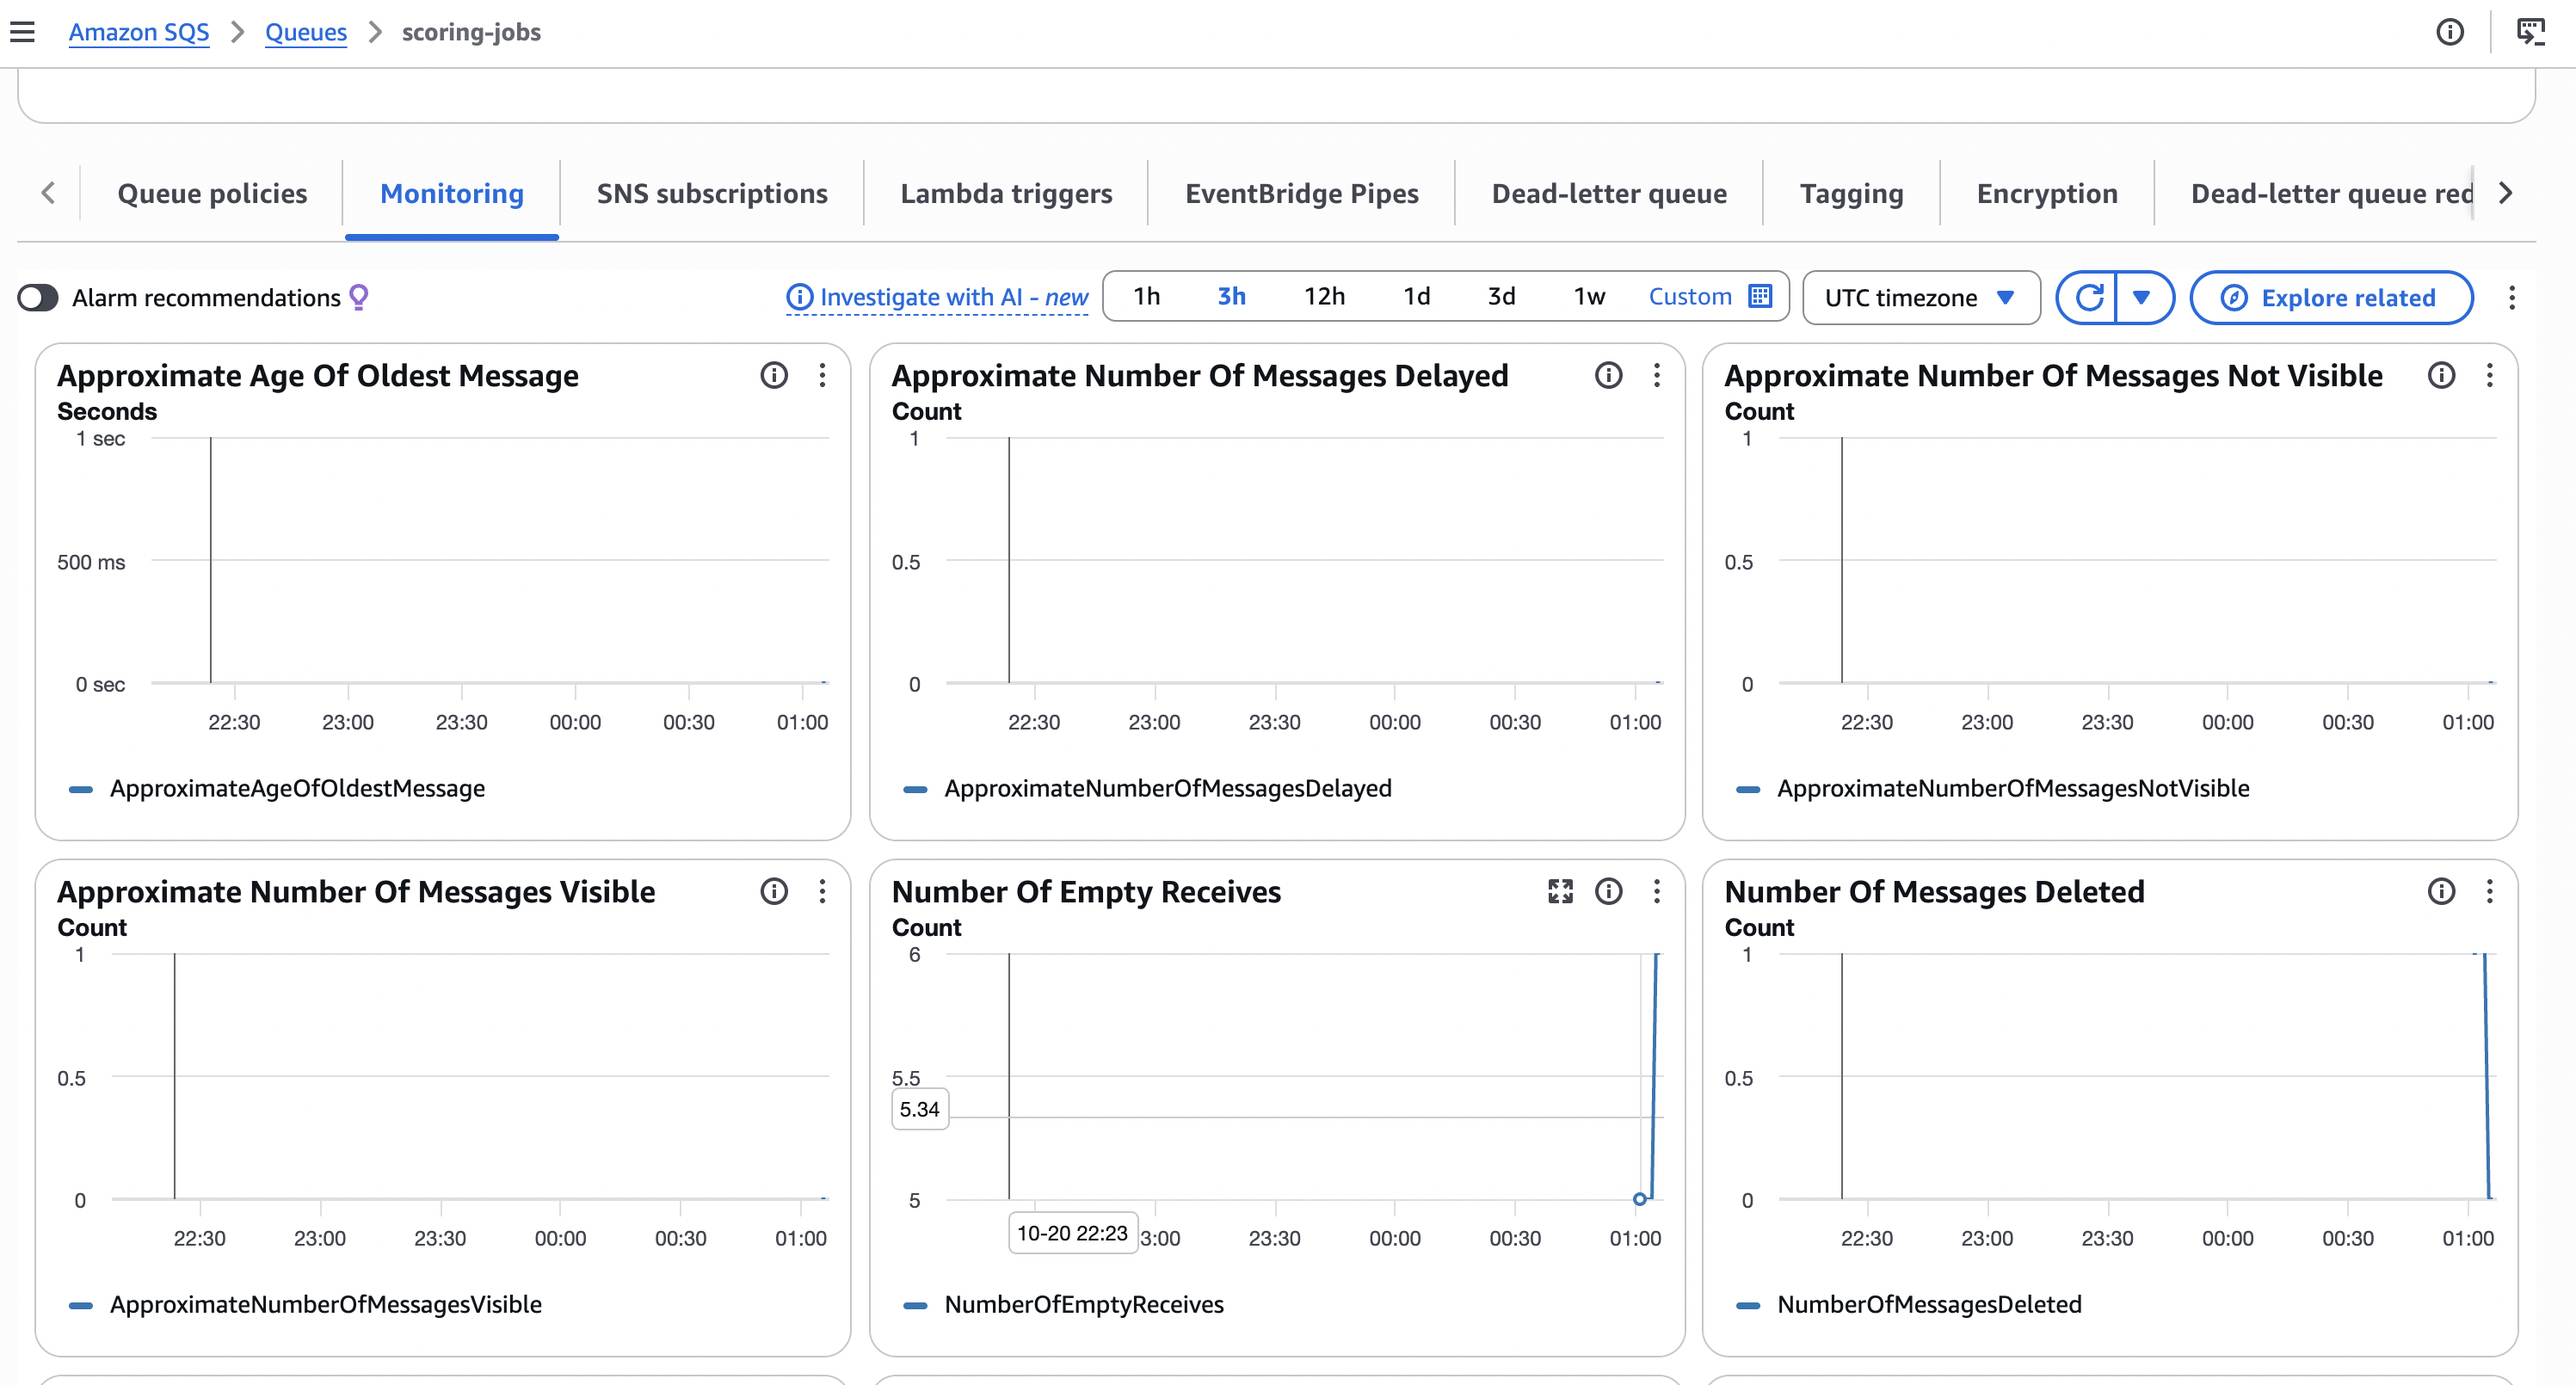
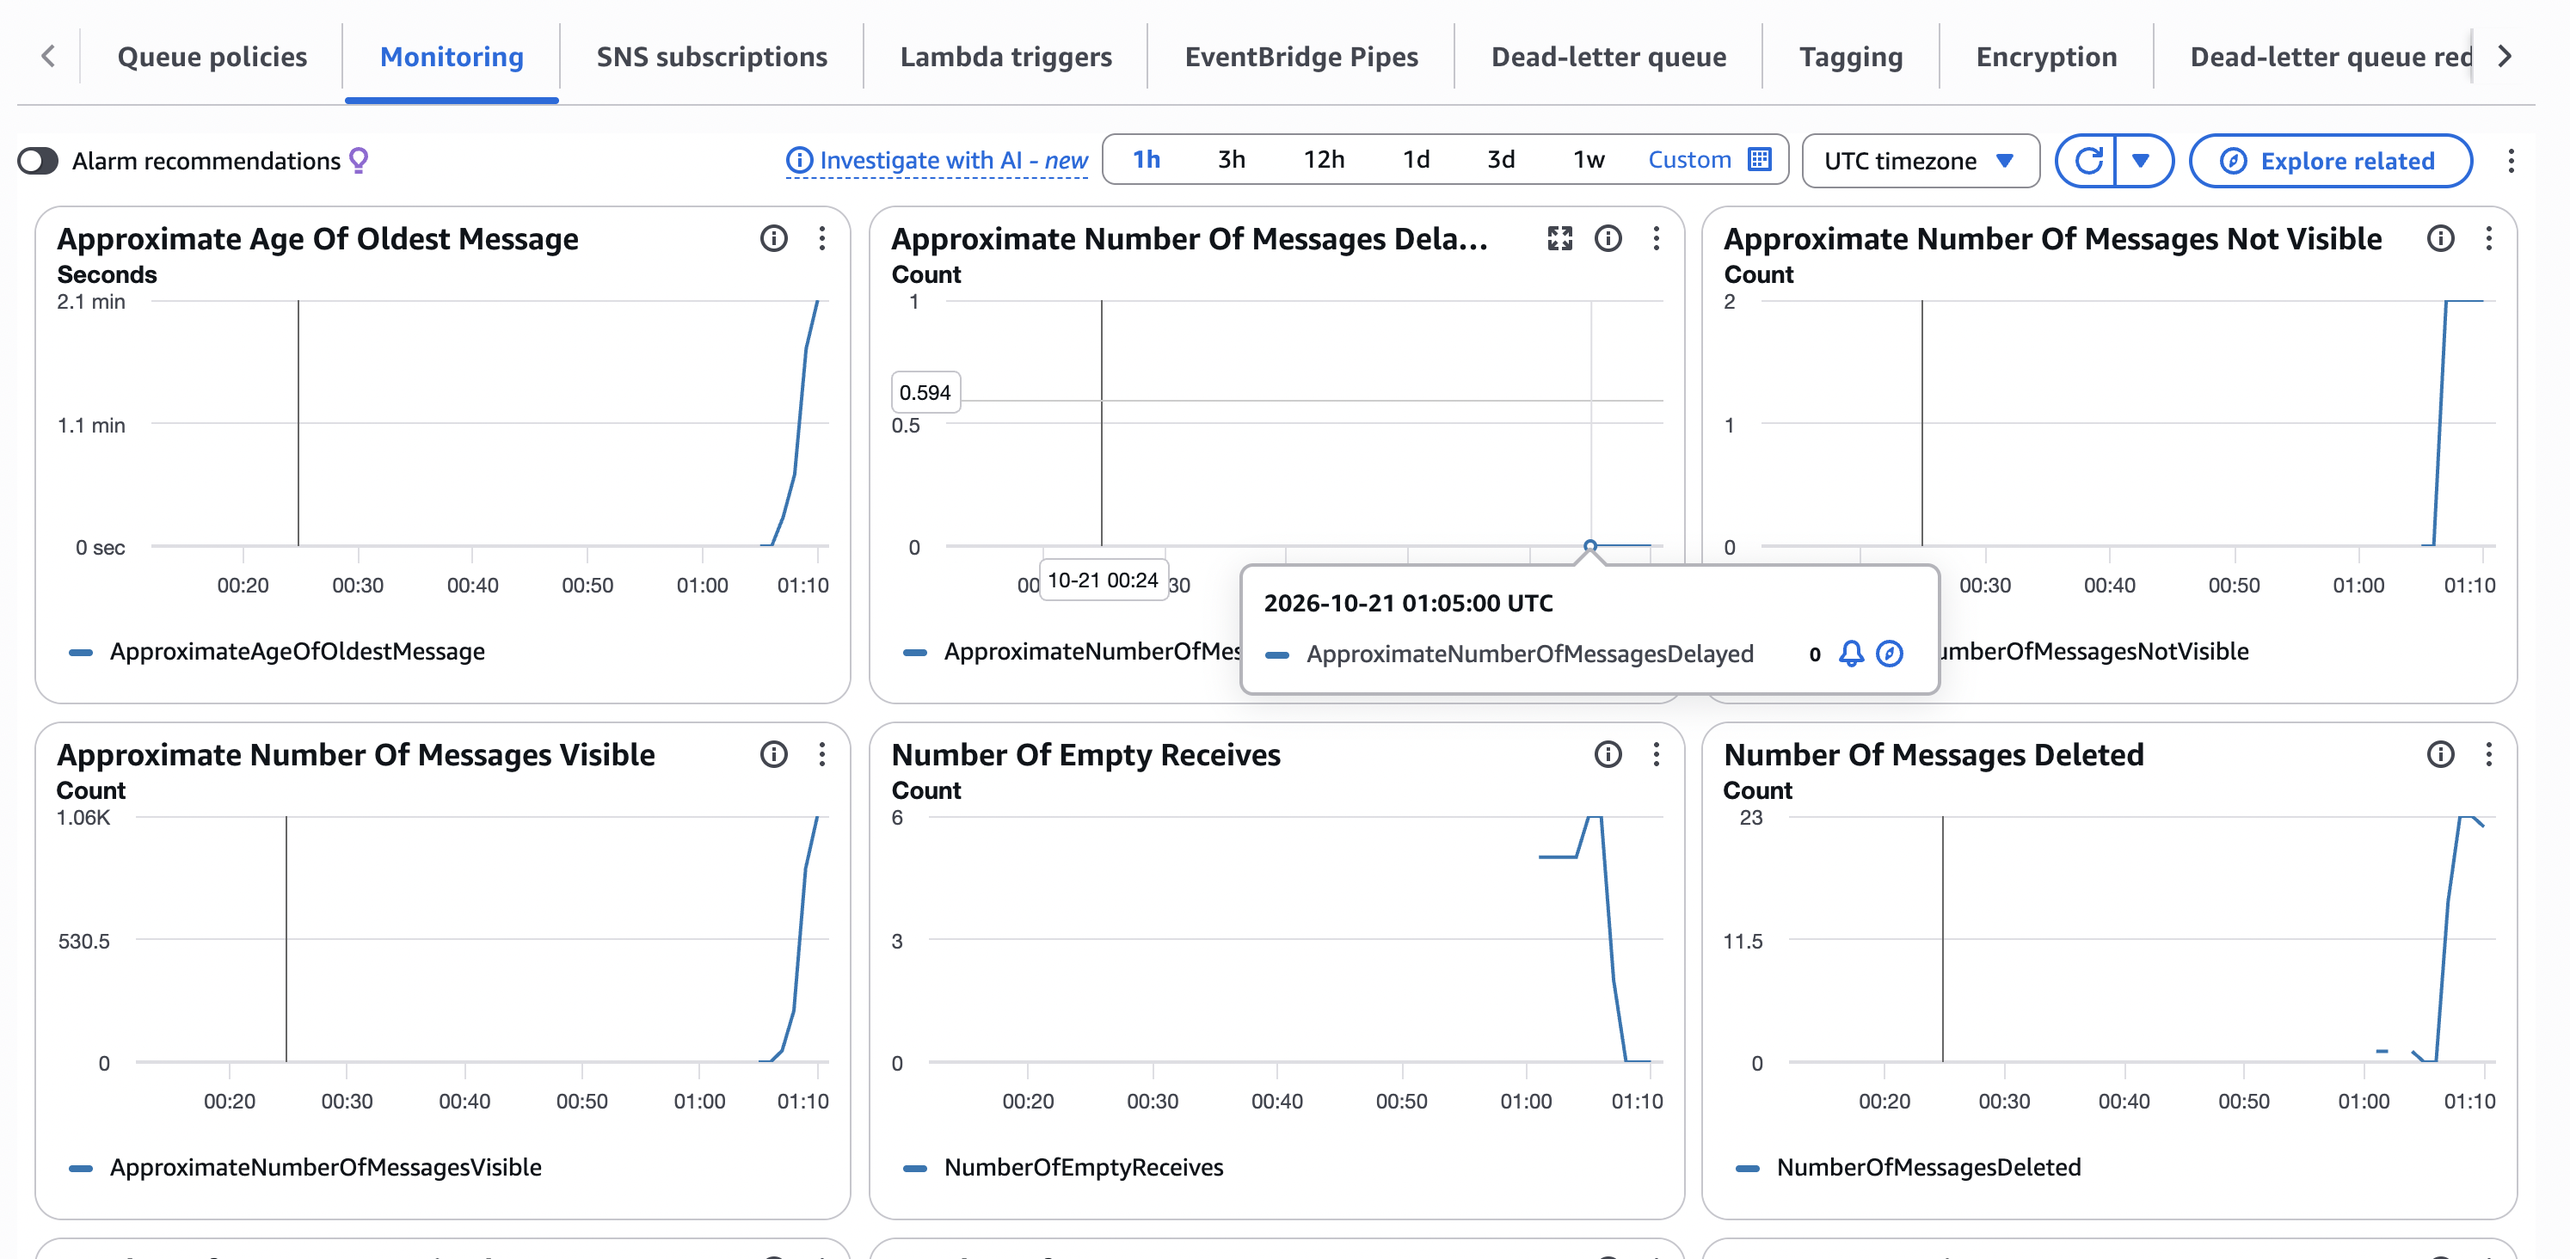
docs(informe): completar 2.3 con resultados de k6 de la Parte 2 y analisis de la cola

diff --git a/informe/santiago-1.3-1.4-2.3.md b/informe/santiago-1.3-1.4-2.3.md
@@ -83,9 +83,11 @@ En resumen, el cuello de botella es el cálculo de Monte Carlo ejecutado de form
 
 ## 2.3 Comparación de resultados
 
-Volvimos a correr el mismo script, sin tocar una línea, contra el `POST /scoring` de la versión con cola y workers. Mantuvimos 0,25 vCPU y 512 MB por tarea, igual que en la Parte 1, para que la comparación fuera justa. La prueba corrió de 22:07 a 22:10, con un solo target del API (la tarea v1 ya había terminado de drenar) y dos workers.
+Volvimos a correr el mismo script, sin tocar una línea, contra el `POST /scoring` de la versión con cola y workers. Mantuvimos 0,25 vCPU y 512 MB por tarea, igual que en la Parte 1, para que la comparación fuera justa. La prueba corrió de 22:07 a 22:10, con un solo target del API (la tarea de la versión anterior ya había terminado de drenar) y dos workers.
 
-[Captura: resumen de k6 de la Parte 2, salida de `tail -40 k6/resultado-parte2.txt`]
+![Resumen de k6 de la Parte 2](capturas/2.3-k6-resumen-parte2.png)
+
+Esta captura muestra el resumen de k6 de la Parte 2: los dos thresholds se cumplen, con un P(95) de 175,64 ms y ninguna solicitud fallida en 1311.
 
 | Métrica | Parte 1 (síncrono) | Parte 2 (cola y workers) |
 |---|---|---|
@@ -99,6 +101,12 @@ Volvimos a correr el mismo script, sin tocar una línea, contra el `POST /scorin
 
 La diferencia es grande en las tres métricas que pide la letra. El P(95) bajó de 59,99 segundos a 175,64 milisegundos, unas 340 veces menos, y quedó muy por debajo del límite de 2500 ms. La tasa de errores pasó de 45,76 % a cero: las 1311 solicitudes recibieron un 202. Y con la misma carga de 10 usuarios procesamos 1311 solicitudes en lugar de 59, 22 veces más, porque los usuarios virtuales ya no pasan la prueba esperando en la fila. Con la pausa de 1 segundo por iteración, 7,26 solicitudes por segundo es prácticamente el máximo que esta carga puede generar, así que ahora el límite lo pone la prueba y no el servicio.
 
+Los reinicios también desaparecieron. Durante la prueba muestreamos el estado del target cada 5 segundos y estuvo `healthy` en todas las mediciones, contra las 21 veces `unhealthy` de la Parte 1.
+
+![Eventos del servicio sin reinicios](capturas/2.3-eventos-ecs-sin-reinicios.png)
+
+Esta captura muestra los eventos del servicio `scoring-api` después de la prueba: lo último que aparece es el fin del despliegue de la versión nueva a las 22:02, y no hay ningún evento de health check ni de reemplazo de tareas durante la prueba, que corrió entre las 22:07 y las 22:10. Los eventos de las 21:52 y 21:53 corresponden a la prueba de la Parte 1.
+
 ![Servicio scoring-api en la versión 2](capturas/2.3-servicio-api-v2-healthy.png)
 
 Esta captura muestra el servicio `scoring-api` ya con la task definition `scoring-app:2` y su target `Healthy`, sin ningún target `Unhealthy`.
@@ -107,16 +115,12 @@ Esta captura muestra el servicio `scoring-api` ya con la task definition `scorin
 
 Esta captura muestra el target group `scoring-tg` con su único target `Healthy` y ninguno en `Unhealthy` ni `Draining`.
 
-Los reinicios también desaparecieron. Durante la prueba muestreamos el estado del target cada 5 segundos y estuvo `healthy` en todas las mediciones, contra las 21 veces `unhealthy` de la Parte 1. En los eventos del servicio, lo último que aparece es el fin del despliegue a las 22:02, y no hay ningún evento de health check ni de reemplazo de tareas entre las 22:07 y las 22:10.
-
-[Captura: eventos del servicio scoring-api sin reinicios durante la prueba]
-
 La mejora no viene de que el cálculo sea más rápido, porque es exactamente el mismo, sino de que la API ya no lo ejecuta: valida los datos, guarda la solicitud como `PENDIENTE` en DynamoDB, la manda a la cola y responde 202 en unos 150 milisegundos. El event loop queda libre, `/health` contesta siempre y ECS no tiene motivo para reiniciar la tarea.
 
-Hay un resultado que queremos contar con la misma claridad que los anteriores, porque es el límite de lo que logramos. El P(95) de la Parte 2 mide cuánto tarda el sistema en aceptar la solicitud, no cuánto tarda en tener el score listo. Al terminar la prueba quedaron 1240 mensajes esperando en `scoring-jobs`, y ninguno en la DLQ. La cuenta lo explica: entraron 7,26 solicitudes por segundo, mientras que cada worker procesa una solicitud a la vez y, con 0,25 vCPU, tarda unos 4,6 segundos por cálculo. Con dos workers salen unas 0,43 solicitudes por segundo, y lo confirmamos midiendo la cola: entre las 22:10 y las 22:12 bajó de 1240 a 1192 mensajes, unos 0,41 por segundo. A ese ritmo, la cola tarda unos 50 minutos en vaciarse, y ese es el tiempo que esperaría el último solicitante de la prueba para ver su resultado.
+Hay un resultado que queremos contar con la misma claridad que los anteriores, porque marca el límite de lo que logramos. El P(95) de la Parte 2 mide cuánto tarda el sistema en aceptar la solicitud, no cuánto tarda en tener el score listo. Al terminar la prueba quedaron 1240 mensajes esperando en `scoring-jobs`, y ninguno en la DLQ. La cuenta lo explica: entraron 7,26 solicitudes por segundo, mientras que cada worker procesa una solicitud a la vez y, con 0,25 vCPU, tarda unos 4,6 segundos por cálculo. Con dos workers salen unas 0,43 solicitudes por segundo, y lo confirmamos midiendo la cola: entre las 22:10 y las 22:12 bajó de 1240 a 1192 mensajes, unos 0,41 por segundo. A ese ritmo la cola tarda unos 50 minutos en vaciarse, y ese es el tiempo que esperaría el último solicitante de la prueba para ver su resultado.
 
 ![Monitoreo de la cola scoring-jobs](capturas/2.3-sqs-monitoring.png)
 
-[Captura: cola scoring-jobs con los mensajes pendientes después de la prueba]
+Esta captura muestra el monitoreo de la cola `scoring-jobs` en la última hora: los mensajes visibles suben a más de 1000 durante la prueba, la antigüedad del mensaje más viejo crece por encima de los 2 minutos, y los mensajes borrados (los que los workers terminan de procesar) se mantienen en unos 23 por minuto.
 
 Por eso decimos que el rediseño cumple lo que pide la financiera en cuanto a errores y reinicios, pero no hace aparecer CPU de la nada. La cola convierte lo que antes eran errores 502 y 504 en espera ordenada: ninguna solicitud se pierde, y si un worker se cae, el mensaje vuelve a la cola. La capacidad de cálculo, en cambio, sigue siendo la que le damos a los workers, y la ventaja de esta arquitectura es que ahora esa capacidad se puede escalar de forma independiente del API. El siguiente paso que proponemos es configurar auto scaling del servicio `scoring-worker` según la métrica `ApproximateNumberOfMessagesVisible` de la cola: para seguirle el ritmo a 7,26 solicitudes por segundo harían falta unos 34 workers de 0,25 vCPU, o menos workers con más vCPU cada uno.
